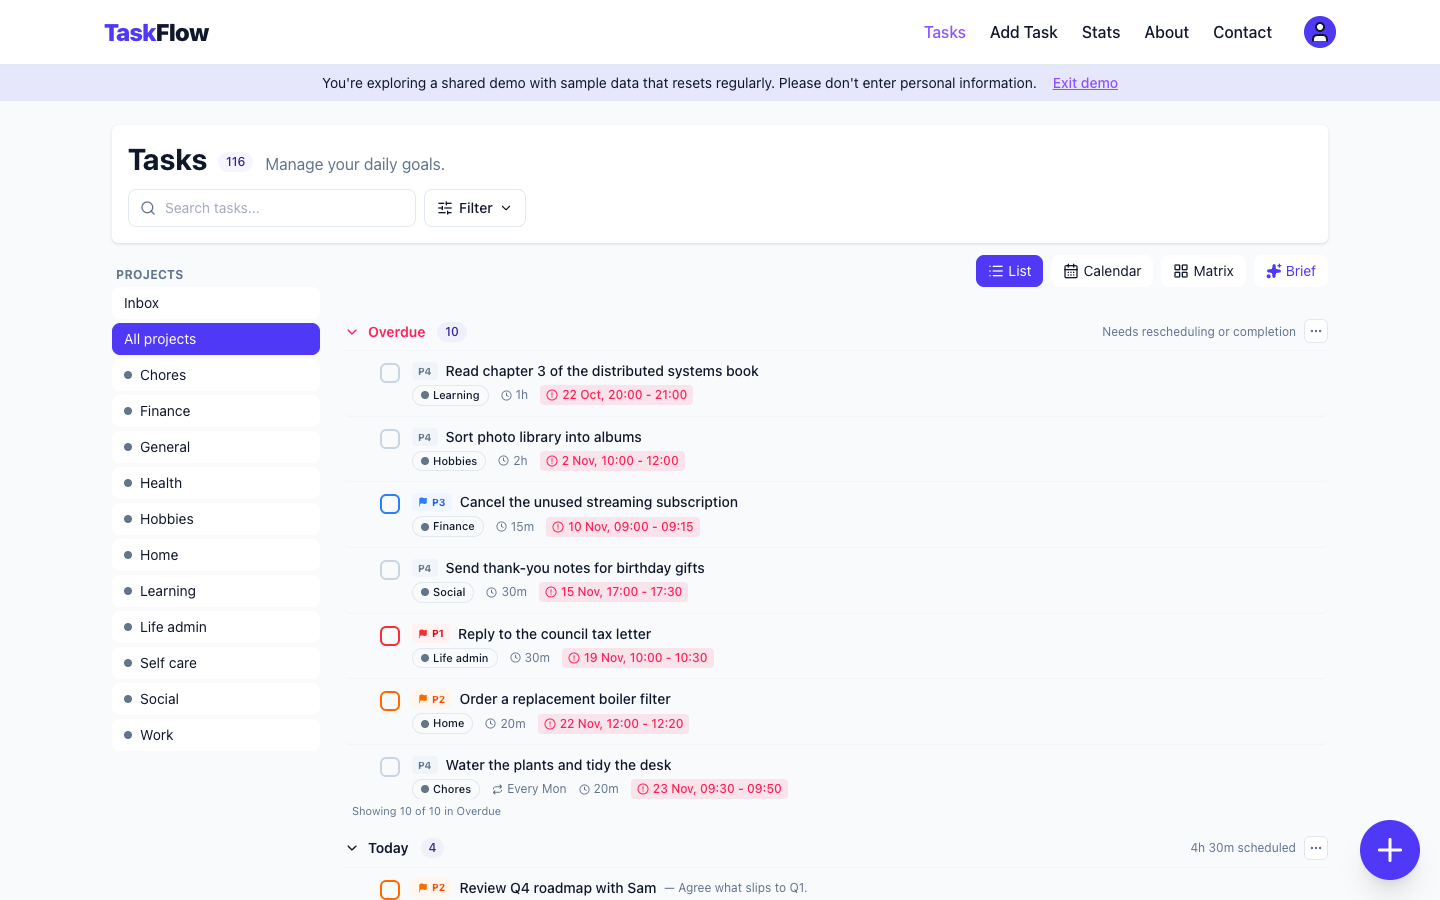
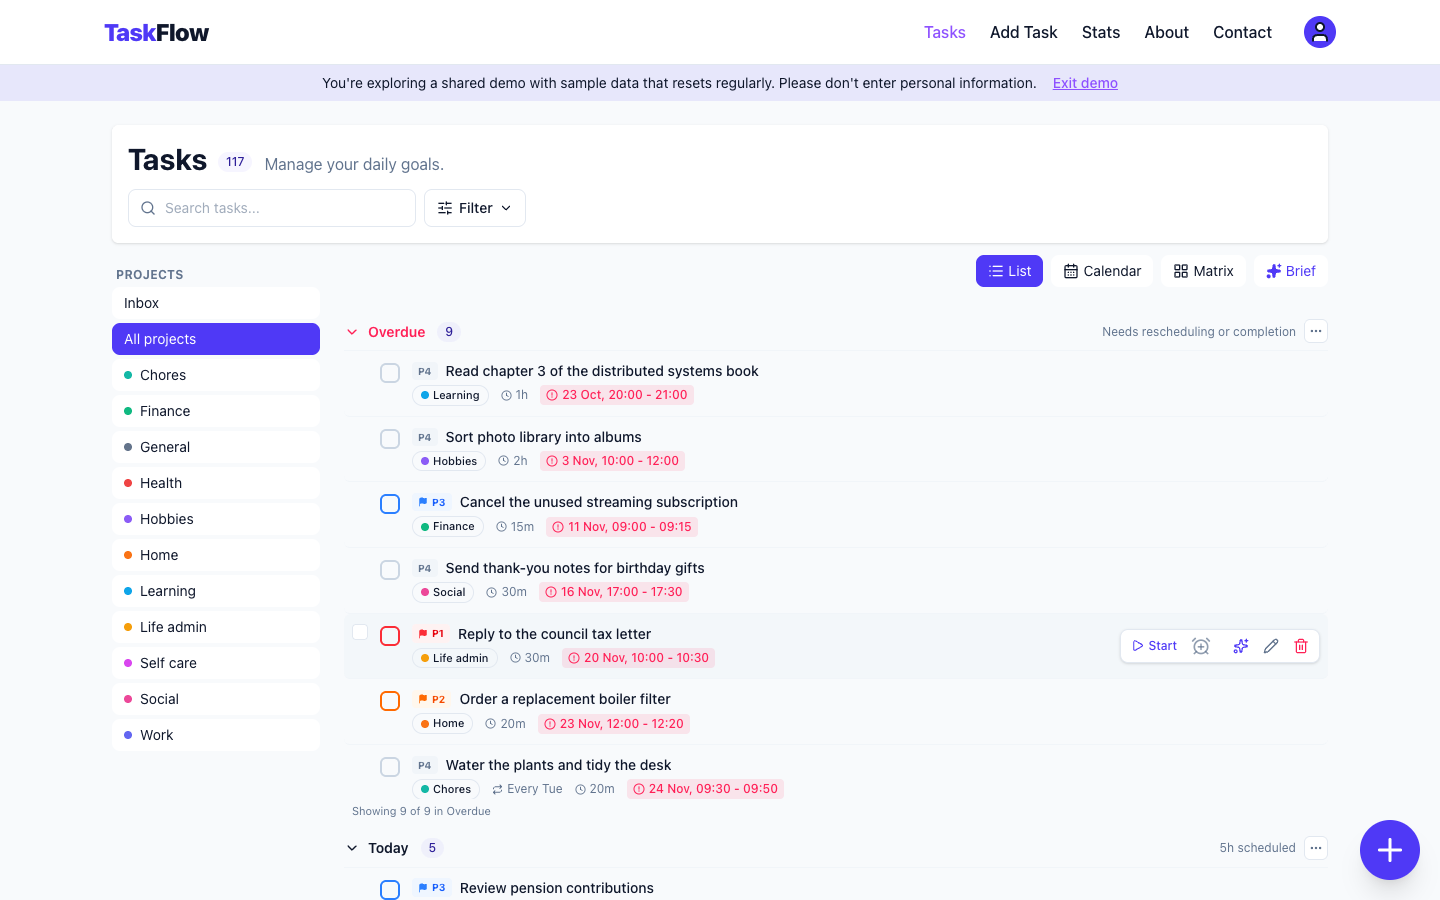
Show projects in distinct colours and add more screenshots (#67)
* Make the TaskFlow demo and screenshots show off the app properly

- Demo seed: give each project its own colour and put the Work project's
  tasks on a To Do / In Progress / Done board, so the board view and
  project colours are visible in the demo.
- Add a test for the seeded colours and board columns.
- Screenshots: add board, week and day calendar views, the add task form
  and two statistics pages with the real charts; drop the month calendar
  and single stats image.
- README and About page list the new screenshots.

* Crop week and day screenshots, equalise stats images, put add task last

diff --git a/task-manager-frontend/src/pages/About.tsx b/task-manager-frontend/src/pages/About.tsx
@@ -23,9 +23,9 @@ const SCREENSHOTS = [
     caption: "List view: overdue, today and upcoming, grouped by project.",
   },
   {
-    src: "/screenshots/taskflow-calendar.png",
-    alt: "A month calendar with tasks and repeating tasks on each day.",
-    caption: "Calendar view, including repeating tasks calculated ahead of time.",
+    src: "/screenshots/taskflow-board.png",
+    alt: "A kanban board with To Do, In Progress and Done columns, each card tagged with its project.",
+    caption: "Board view: each project gets its own columns.",
   },
   {
     src: "/screenshots/taskflow-matrix.png",
@@ -33,14 +33,34 @@ const SCREENSHOTS = [
     caption: "Eisenhower matrix: drag a task between quadrants to change its priority.",
   },
   {
+    src: "/screenshots/taskflow-week.png",
+    alt: "A week calendar with tasks coloured by project across seven days.",
+    caption: "Week view on a busy week, coloured by project.",
+  },
+  {
+    src: "/screenshots/taskflow-day.png",
+    alt: "A day calendar with six tasks of different project colours.",
+    caption: "Day view on a busy day.",
+  },
+  {
     src: "/screenshots/taskflow-brief.png",
     alt: "A daily brief summarising today's priorities and overdue work.",
     caption: "The AI daily brief, written from your own tasks.",
   },
   {
-    src: "/screenshots/taskflow-stats.png",
-    alt: "A statistics dashboard with completion rate, streak and an activity heatmap.",
-    caption: "Statistics: completion rate, streak and a year of activity.",
+    src: "/screenshots/taskflow-stats-1.png",
+    alt: "A statistics dashboard with completion rate, streak, an activity heatmap and deadline charts.",
+    caption: "Statistics: completion rate, streak, a year of activity and upcoming deadlines.",
+  },
+  {
+    src: "/screenshots/taskflow-stats-2.png",
+    alt: "Statistics charts for project breakdown, weekly flow, turnaround time and estimation accuracy.",
+    caption: "Statistics: where time goes and how accurate estimates are.",
+  },
+  {
+    src: "/screenshots/taskflow-add-task.png",
+    alt: "The add task form with title, project, priority, schedule, reminders and repeat settings.",
+    caption: "Adding a task, with schedule, reminders and repeats.",
   },
 ];
 

diff --git a/task-manager-backend/app/demo/seed.py b/task-manager-backend/app/demo/seed.py
@@ -14,7 +14,7 @@ from sqlalchemy import delete, select
 from sqlalchemy.orm import Session
 from werkzeug.security import generate_password_hash
 
-from app.constants import DEFAULT_PRIORITY
+from app.constants import DEFAULT_COLUMNS, DEFAULT_PRIORITY
 from app.database import SessionLocal, engine
 from app.demo import DEMO_USER_EMAIL
 from app.models import (
@@ -22,8 +22,10 @@ from app.models import (
     Label,
     Notification,
     NotificationSubscription,
+    OnDrop,
     PasswordReset,
     Project,
+    ProjectColumn,
     RefreshToken,
     Task,
     User,
@@ -173,6 +175,47 @@ def build_series(
         yield task, history, item["category"]
 
 
+BOARD_CATEGORY = "work"
+PROJECT_COLOURS = {
+    "work": "#6366f1",
+    "learning": "#0ea5e9",
+    "finance": "#10b981",
+    "life-admin": "#f59e0b",
+    "social": "#ec4899",
+    "health": "#ef4444",
+    "hobbies": "#8b5cf6",
+    "chores": "#14b8a6",
+    "home": "#f97316",
+    "general": "#64748b",
+    "self-care": "#d946ef",
+}
+
+
+def create_columns(session: Session, project_id: int) -> dict[str, int]:
+    """Adds the starter board columns and returns their ids by status."""
+    columns = {}
+    for position, (name, status, colour, on_drop) in enumerate(DEFAULT_COLUMNS):
+        column = ProjectColumn(
+            project_id=project_id,
+            name=name,
+            status=status,
+            colour=colour,
+            on_drop=OnDrop(on_drop),
+            position=position,
+        )
+        session.add(column)
+        session.flush()
+        columns[status] = column.id
+    return columns
+
+
+def board_status(task: Task, open_index: int) -> str:
+    """Spreads open tasks across To Do and In Progress; finished ones are Done."""
+    if task.is_completed:
+        return "done"
+    return "in_progress" if open_index % 3 == 0 else "pending"
+
+
 def create_projects(
     session: Session, user_id: int, categories: set[str]
 ) -> dict[str, int]:
@@ -182,6 +225,11 @@ def create_projects(
             user_id=user_id,
             name=category.replace("-", " ").capitalize(),
             position=position,
+            **(
+                {"colour": PROJECT_COLOURS[category]}
+                if category in PROJECT_COLOURS
+                else {}
+            ),
         )
         session.add(project)
         session.flush()
@@ -224,17 +272,24 @@ def reset_demo_account(now: datetime | None = None) -> int:
         )
 
         projects = create_projects(session, user.id, {item[2] for item in series})
+        board = create_columns(session, projects[BOARD_CATEGORY])
 
         count = 0
+        open_on_board = 0
         for task, history, category in series:
             task.user_id = user.id
             task.project_id = projects[category]
+            if category == BOARD_CATEGORY:
+                task.column_id = board[board_status(task, open_on_board)]
+                open_on_board += not task.is_completed
             session.add(task)
             session.flush()
             task.series_id = task.id
             for past in history:
                 past.user_id, past.series_id = user.id, task.id
                 past.project_id = projects[category]
+                if category == BOARD_CATEGORY:
+                    past.column_id = board["done"]
             session.add_all(history)
             count += 1 + len(history)
 

diff --git a/task-manager-backend/tests/services/test_demo_seed.py b/task-manager-backend/tests/services/test_demo_seed.py
@@ -7,7 +7,7 @@ from sqlalchemy import func, select
 from app.database import db
 from app.demo import DEMO_USER_EMAIL
 from app.demo.seed import reset_demo_account
-from app.models import Label, Task, User
+from app.models import Label, Project, ProjectColumn, Task, User
 
 
 def test_reset_builds_the_demo_account_and_is_repeatable(
@@ -34,6 +34,37 @@ def test_reset_builds_the_demo_account_and_is_repeatable(
         assert repeating and all(t.series_id == t.id for t in repeating)
         history = [t for t in tasks if t.series_id != t.id]
         assert history and all(t.is_completed and not t.is_repeating for t in history)
+
+
+def test_reset_gives_each_project_its_own_colour_and_fills_the_work_board(
+    app: Flask, make_demo_user: Callable[[], int]
+) -> None:
+    demo_id = make_demo_user()
+
+    reset_demo_account()
+
+    with app.app_context():
+        projects = db.session.scalars(
+            select(Project).where(Project.user_id == demo_id)
+        ).all()
+        colours = [p.colour for p in projects]
+        assert len(projects) > 1 and len(set(colours)) == len(colours)
+
+        work = next(p for p in projects if p.name == "Work")
+        columns = db.session.scalars(
+            select(ProjectColumn).where(ProjectColumn.project_id == work.id)
+        ).all()
+        assert {c.status for c in columns} == {"pending", "in_progress", "done"}
+
+        work_tasks = db.session.scalars(
+            select(Task).where(Task.project_id == work.id)
+        ).all()
+        by_column = {c.id: c.status for c in columns}
+        assert work_tasks and all(t.column_id in by_column for t in work_tasks)
+        assert {by_column[t.column_id] for t in work_tasks} == set(by_column.values())
+        assert all(
+            by_column[t.column_id] == "done" for t in work_tasks if t.is_completed
+        )
 
 
 def test_reset_refuses_to_touch_a_real_account(

diff --git a/README.md b/README.md
@@ -8,12 +8,20 @@ A task manager with calendar, board and repeating tasks, AI suggestions you can 
 
 <table>
   <tr>
-    <td><img src="task-manager-frontend/public/screenshots/taskflow-calendar.png" alt="Calendar view with repeating tasks"><br><sub>Calendar view</sub></td>
+    <td><img src="task-manager-frontend/public/screenshots/taskflow-board.png" alt="Kanban board with To Do, In Progress and Done columns"><br><sub>Kanban board</sub></td>
     <td><img src="task-manager-frontend/public/screenshots/taskflow-matrix.png" alt="Eisenhower matrix view"><br><sub>Eisenhower matrix</sub></td>
   </tr>
   <tr>
+    <td><img src="task-manager-frontend/public/screenshots/taskflow-week.png" alt="Week calendar view on a busy week"><br><sub>Calendar: week</sub></td>
+    <td><img src="task-manager-frontend/public/screenshots/taskflow-day.png" alt="Day calendar view on a busy day"><br><sub>Calendar: day</sub></td>
+  </tr>
+  <tr>
     <td><img src="task-manager-frontend/public/screenshots/taskflow-brief.png" alt="AI daily brief"><br><sub>AI daily brief</sub></td>
-    <td><img src="task-manager-frontend/public/screenshots/taskflow-stats.png" alt="Statistics dashboard"><br><sub>Statistics</sub></td>
+    <td><img src="task-manager-frontend/public/screenshots/taskflow-stats-1.png" alt="Statistics: completion rate, activity heatmap, productivity and deadlines charts"><br><sub>Statistics: overview</sub></td>
+  </tr>
+  <tr>
+    <td><img src="task-manager-frontend/public/screenshots/taskflow-stats-2.png" alt="Statistics: project breakdown, weekly flow, turnaround and estimation accuracy"><br><sub>Statistics: trends</sub></td>
+    <td><img src="task-manager-frontend/public/screenshots/taskflow-add-task.png" alt="Add task form with schedule, reminders and repeat options"><br><sub>Add task</sub></td>
   </tr>
 </table>
 
